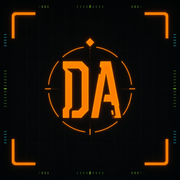
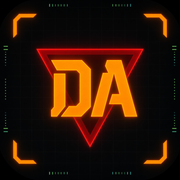
振幅の表記に揃え、DAホーム画面アイコンを指揮所風に刷新する。

diff --git a/js/charts.js b/js/charts.js
@@ -223,56 +223,6 @@ class NervCharts {
         ctx.fillText(text, x, y);
     }
 
-    comfortFill(cls) {
-        if (cls === 'comfort-good') {
-            return 'rgba(57, 255, 80, 0.22)';
-        }
-        if (cls === 'comfort-mid') {
-            return 'rgba(255, 210, 0, 0.22)';
-        }
-        if (cls === 'comfort-bad') {
-            return 'rgba(255, 122, 24, 0.22)';
-        }
-        if (cls === 'comfort-extreme') {
-            return 'rgba(255, 59, 48, 0.22)';
-        }
-        return 'rgba(255, 210, 0, 0.22)';
-    }
-
-    comfortStroke(cls) {
-        if (cls === 'comfort-good') {
-            return '#39ff50';
-        }
-        if (cls === 'comfort-mid') {
-            return '#ffd200';
-        }
-        if (cls === 'comfort-bad') {
-            return '#ff7a18';
-        }
-        if (cls === 'comfort-extreme') {
-            return '#ff3b30';
-        }
-        return '#ffd200';
-    }
-
-    drawComfortSegments(ctx, pts, now, w, h, maxRms) {
-        if (pts.length < 2) {
-            return;
-        }
-        ctx.lineJoin = 'round';
-        ctx.lineCap = 'round';
-        ctx.lineWidth = 2.6;
-        for (let i = 1; i < pts.length; i++) {
-            const a = pts[i - 1];
-            const b = pts[i];
-            ctx.beginPath();
-            ctx.moveTo(this.axisX(a.t, now, w), this.yOf(a.combinedRms || 0, 0, maxRms, h));
-            ctx.lineTo(this.axisX(b.t, now, w), this.yOf(b.combinedRms || 0, 0, maxRms, h));
-            ctx.strokeStyle = this.comfortStroke(b.comfortClass);
-            ctx.stroke();
-        }
-    }
-
     drawSpeed() {
         const canvas = this.canvases.speed;
         if (!canvas) {
@@ -317,24 +267,16 @@ class NervCharts {
             ...pts.map((p) => p.combinedRms || 0)
         );
 
-        const comfortY = this.yOf(0.315, 0, maxRms, h);
-        ctx.fillStyle = 'rgba(57, 255, 80, 0.07)';
-        ctx.fillRect(0, comfortY, w, h - comfortY);
-        ctx.fillStyle = 'rgba(255, 122, 24, 0.08)';
-        ctx.fillRect(0, this.yOf(0.63, 0, maxRms, h), w, this.yOf(0.315, 0, maxRms, h) - this.yOf(0.63, 0, maxRms, h));
-        ctx.fillStyle = 'rgba(255, 59, 48, 0.10)';
-        ctx.fillRect(0, 0, w, this.yOf(0.63, 0, maxRms, h));
-
-        this.label(ctx, '快適', 6, Math.min(h - 6, comfortY - 3), 'rgba(57,255,80,0.55)');
-        this.label(ctx, '不快', 6, Math.max(14, this.yOf(0.63, 0, maxRms, h) + 11), 'rgba(255,59,48,0.55)');
-
-        const last = pts[pts.length - 1] || this.snapshot;
         this.fillToBaseline(
             ctx, pts, now, w, h,
             (p) => p.combinedRms || 0, 0, maxRms,
-            this.comfortFill(last.comfortClass), 0
+            'rgba(255, 210, 0, 0.22)', 0
         );
-        this.drawComfortSegments(ctx, pts, now, w, h, maxRms);
+        this.strokeLine(
+            ctx, pts, now, w, h,
+            (p) => p.combinedRms || 0, 0, maxRms,
+            '#ffd200', 2.5
+        );
 
         const maxHz = Math.max(16, ...pts.map((p) => p.freq || 0));
         ctx.setLineDash([5, 4]);
@@ -349,7 +291,7 @@ class NervCharts {
         this.glowLast(
             ctx, pts, now, w, h,
             (p) => p.combinedRms || 0, 0, maxRms,
-            this.comfortStroke(last.comfortClass)
+            '#ffd200'
         );
     }
 

diff --git a/index.html b/index.html
@@ -7,8 +7,8 @@
     <meta name="apple-mobile-web-app-capable" content="yes">
     <meta name="apple-mobile-web-app-status-bar-style" content="black-translucent">
     <meta name="apple-mobile-web-app-title" content="DA">
-    <link rel="apple-touch-icon" href="images/apple-touch-icon.png">
-    <link rel="icon" type="image/png" sizes="192x192" href="images/icon-192.png">
+    <link rel="apple-touch-icon" href="images/apple-touch-icon.png?v=19">
+    <link rel="icon" type="image/png" sizes="192x192" href="images/icon-192.png?v=19">
     <title>DriveAnalytics</title>
     <link rel="preconnect" href="https://fonts.googleapis.com">
     <link rel="preconnect" href="https://fonts.gstatic.com" crossorigin>
@@ -40,7 +40,7 @@
                     <div class="map-toolbar">
                         <span class="panel-code">MAP</span>
                         <button type="button" id="colorNoise" class="chip is-active">音圧</button>
-                        <button type="button" id="colorVib" class="chip">合成</button>
+                        <button type="button" id="colorVib" class="chip">振幅</button>
                     </div>
                     <div id="map"></div>
                 </section>
@@ -59,7 +59,7 @@
                         <div class="graph-hud">
                             <span class="panel-code">VIB</span>
                             <span class="graph-title">振動</span>
-                            <span class="legend"><i class="lg-yellow"></i>合成</span>
+                            <span class="legend"><i class="lg-yellow"></i>振幅</span>
                             <span class="legend"><i class="lg-freq"></i>Hz</span>
                             <b id="hud-comfort" class="hud-push comfort-chip">--</b>
                             <b id="hud-motion">--</b>

diff --git a/sw.js b/sw.js
@@ -1,5 +1,5 @@
 // sw.js
-const CACHE_NAME = 'drive-analytics-v17';
+const CACHE_NAME = 'drive-analytics-v19';
 const urlsToCache = [
     './',
     './index.html',
